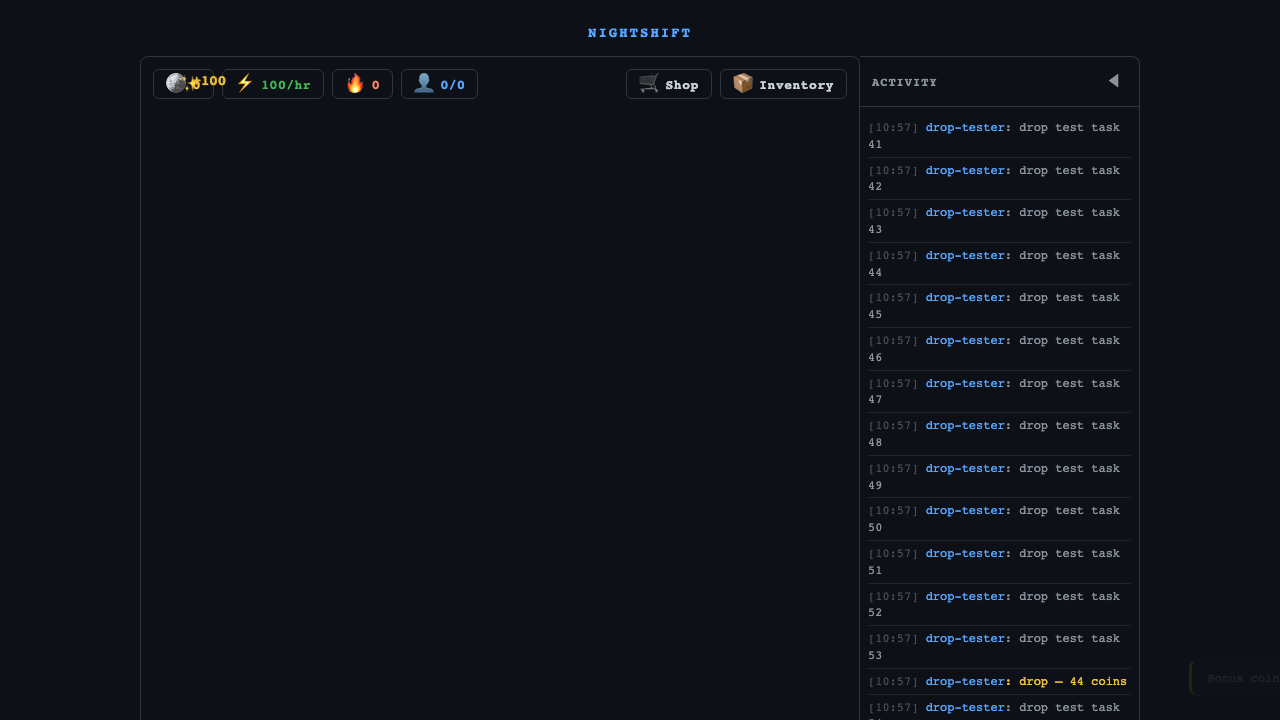
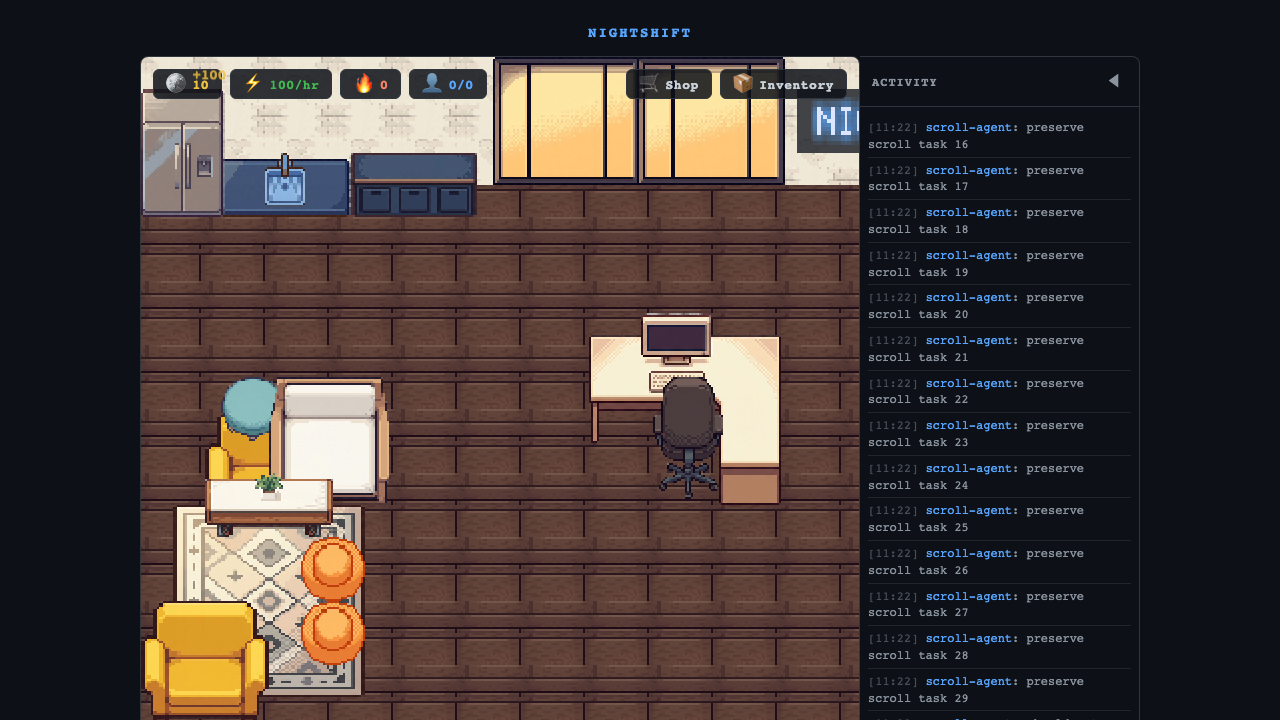
fix(issue-54): render world tiles in e2e tests, update screenshots

diff --git a/tests/e2e/game-world.spec.ts b/tests/e2e/game-world.spec.ts
@@ -19,11 +19,28 @@ test.beforeAll(async () => {
   const randomPort = 10000 + Math.floor(Math.random() * 50000);
   const publicDir = path.join(projectRoot, 'dist', 'lib', 'agentville', 'server');
 
-  // Ensure universal_assets are accessible from publicDir so engine can load sprites
+  // Ensure world assets are accessible from publicDir so the engine can load sprites and tiles
+  const worldsSource = path.join(projectRoot, 'dist', 'worlds', 'agentville');
   const assetsLink = path.join(publicDir, 'universal_assets');
-  const assetsSource = path.join(projectRoot, 'dist', 'worlds', 'agentville', 'universal_assets');
-  if (!fs.existsSync(assetsLink) && fs.existsSync(assetsSource)) {
-    fs.symlinkSync(assetsSource, assetsLink);
+  if (!fs.existsSync(assetsLink) && fs.existsSync(path.join(worldsSource, 'universal_assets'))) {
+    fs.symlinkSync(path.join(worldsSource, 'universal_assets'), assetsLink);
+  }
+  // Symlink agentville world dir so /api/world discovers world.json and tile/prop assets
+  const worldLink = path.join(publicDir, 'agentville');
+  if (!fs.existsSync(worldLink) && fs.existsSync(worldsSource)) {
+    fs.symlinkSync(worldsSource, worldLink);
+  }
+  // Use base-world.json as the global world.json so the full tilemap renders
+  const globalWorldLink = path.join(publicDir, 'world.json');
+  const baseWorldSource = path.join(worldsSource, 'base-world.json');
+  if (!fs.existsSync(globalWorldLink) && fs.existsSync(baseWorldSource)) {
+    fs.symlinkSync(baseWorldSource, globalWorldLink);
+  }
+  // Symlink world_assets (tiles, props) so tile images load at /worlds/world_assets/...
+  const worldAssetsLink = path.join(publicDir, 'world_assets');
+  const worldAssetsSource = path.join(worldsSource, 'world_assets');
+  if (!fs.existsSync(worldAssetsLink) && fs.existsSync(worldAssetsSource)) {
+    fs.symlinkSync(worldAssetsSource, worldAssetsLink);
   }
 
   const srv = new AgentvilleServer({ port: randomPort, publicDir });
